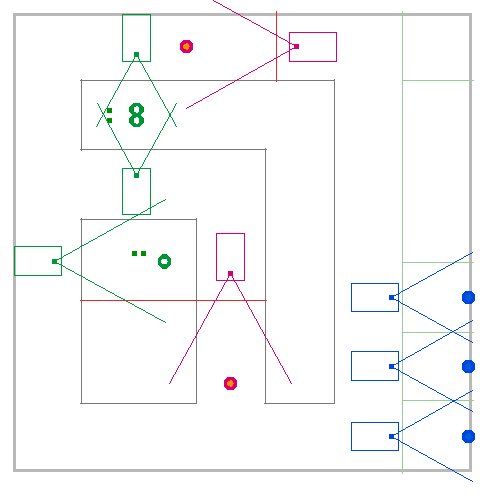
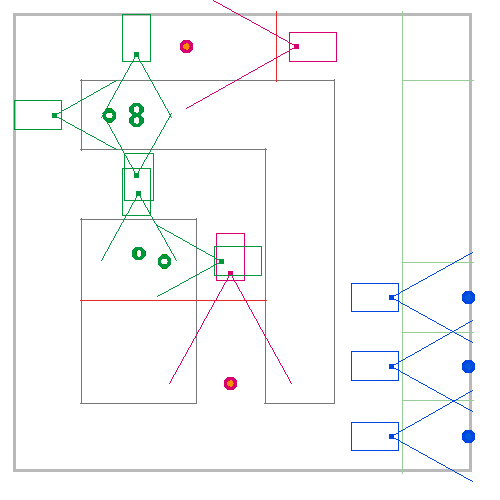
修正识别点位: 立牌朝向法线应为 -(cos yaw, sin yaw) (人物在模型 -x 面)
症状: A_north/A_south 的点位互换、A_west/B_north 算不出解 (相机被放到街区里面)。
原因: 点位工具按'朝向 = yaw 方向'算, 而实拍确认人物图在 -x 面。
修后 5 组都是正对 (正视度 1.00), 可见高度 91~100%, 距离 0.50~0.55m。

diff --git a/tools/gen_recognition_points.py b/tools/gen_recognition_points.py
@@ -332,6 +332,10 @@ def seg_hit_rect(seg, cx, cy, yaw, hx, hy):
 #  4. 目标
 # =============================================================================
 def standee_box(x, y, yaw, w):
+    """★ 立牌"朝哪边"= 模型局部 **-x** 面 (实拍标定, 见 gen_standees.py 的说明):
+    人物图只渲染在 -x 面, +x 面是透明的、背板就贴在那面。
+    所以朝向法线 = **-(cos yaw, sin yaw)**, 不是 +(cos yaw, sin yaw)。
+    (这一条搞错的后果: A_north/A_south 的点位会互换、A_west/B_north 直接无解。)"""
     hx, hy = GS.THICK / 2.0, w / 2.0
     z0, z1 = GS.BASE_H, GS.BASE_H + GS.STANDEE_H
     c, s = math.cos(yaw), math.sin(yaw)
@@ -340,7 +344,7 @@ def standee_box(x, y, yaw, w):
         for dy in (+hy, -hy):
             for z in (z0, z1):
                 pts.append([x + dx * c - dy * s, y + dx * s + dy * c, z])
-    return dict(x=x, y=y, w=w, normal=(c, s), z0=z0, z1=z1,
+    return dict(x=x, y=y, w=w, normal=(-c, -s), z0=z0, z1=z1,
                 foot=(GS.BASE_X / 2.0, w / 2.0), pts=pts)
 
 

diff --git a/docs/recognition_points.md b/docs/recognition_points.md
@@ -21,17 +21,21 @@
 |---|---|---|---|---|---|---|---|---|
 | `tl_top` | traffic_light | (+0.643, +1.779) | -180.0° | 1.000 m (距停止线 0.10 m) | 灯珠直径 px 101.0 (阈值 25) | 0.97 | 30% | 中部街区列 / 顶车道 |
 | `tl_bot` | traffic_light | (-0.110, -0.131) | -90.0° | 1.000 m (距停止线 0.16 m) | 灯珠直径 px 101.0 (阈值 25) | 0.97 | 30% | 竖车道 / B 街区带 |
-| `A_north` | standee | (-0.962, +0.464) | +90.0° | 0.595 m | 立牌宽 px 128.6 (阈值 40) | 1.00 | 76% | A/B 街区列 / 中车道 |
+| `A_north` | standee | (-0.962, +1.857) | -90.0° | 0.500 m | 立牌宽 px 153.1 (阈值 40) | 1.00 | 72% | A/B 街区列 / 顶车道 |
 
-> `A_north` 立牌在画面里高约 292 px。
-| `A_south` | standee | (-0.962, +1.861) | -90.0° | 0.605 m | 立牌宽 px 134.3 (阈值 40) | 1.00 | 76% | A/B 街区列 / 顶车道 |
+> `A_north` 立牌在画面里高约 316 px。
+| `A_south` | standee | (-0.962, +0.458) | +90.0° | 0.500 m | 立牌宽 px 162.6 (阈值 40) | 1.00 | 71% | A/B 街区列 / 中车道 |
 
-> `A_south` 立牌在画面里高约 287 px。
-| `A_west` | standee | — | — | — | **无可行解** | — | — | — |
-| `B_east` | standee | (-1.856, -0.170) | +0.0° | 1.000 m | 立牌宽 px 63.9 (阈值 40) | 1.00 | 86% | 左车道 / B 街区带 |
+> `A_south` 立牌在画面里高约 316 px。
+| `A_west` | standee | (-1.861, +1.157) | +0.0° | 0.500 m | 立牌宽 px 110.2 (阈值 40) | 1.00 | 75% | 左车道 / A 街区带 |
 
-> `B_east` 立牌在画面里高约 173 px。
-| `B_north` | standee | — | — | — | **无可行解** | — | — | — |
+> `A_west` 立牌在画面里高约 316 px。
+| `B_east` | standee | (-0.038, -0.170) | -180.0° | 0.520 m | 立牌宽 px 123.1 (阈值 40) | 1.00 | 73% | 竖车道 / B 街区带 |
+
+> `B_east` 立牌在画面里高约 320 px。
+| `B_north` | standee | (-0.941, +0.596) | -90.0° | 0.550 m | 立牌宽 px 96.8 (阈值 40) | 1.00 | 76% | A/B 街区列 / 中车道 |
+
+> `B_north` 立牌在画面里高约 316 px。
 | `car_1` | plate | (+1.201, -0.501) | +0.0° | 0.700 m | 车牌宽 px 156.7 (阈值 140) | 1.00 | 68% | 东竖车道 / B 街区带 |
 | `car_2` | plate | (+1.201, -1.125) | +0.0° | 0.700 m | 车牌宽 px 156.7 (阈值 140) | 1.00 | 68% | 东竖车道 / 下方街区带 |
 | `car_3` | plate | (+1.201, -1.762) | +0.0° | 0.700 m | 车牌宽 px 156.7 (阈值 140) | 1.00 | 68% | 东竖车道 / 底车道 |
@@ -65,9 +69,9 @@
   - 分辨率下界实测: `tools/check_ocr_resolution.py` 把官方车牌重采样后喂HyperLPR3 识别网络, **70 px 仍 3/3 全对**(加重模糊亦然)。
   - 所以识别不是瓶颈, 要解决的是"从整幅画面里把车牌框出来"(检测/定位)。
 * **人偶立牌 (正对原则)**: 每个方向定一个**正对**该方向人偶的点位 —— 相机光轴垂直于立牌板面 (正视度 1.00, 横向偏置 <=0.00 m)
-  - 画面里立牌宽 64~134 px、可见高 173~292 px。
-  - 代价: 相机只有 **0.20 m 高且无俯仰**, 正对时最近只能站到 0.60~1.00 m, **下沿必然被切**, 画面里只有立牌上部 100%~100% (头+上躯干)。
-  - 实拍验证过: 拍全立牌需要 d >= 0.54 m, 而车道只有 0.61 m 宽装不下 ——**唯一解法是给相机加约 -2° 俯仰**(或降低安装高度), 会偏离实车参数, 需先确认实车相机能不能动。
+  - 画面里立牌宽 97~163 px、可见高 316~320 px。
+  - 代价: 相机只有 **0.20 m 高且无俯仰**, 正对时最近只能站到 0.50~0.55 m, **下沿必然被切**, 画面里只有立牌上部 91%~100% (头+上躯干)。
+  - 实拍验证过: 拍全立牌需要 d >= 0.54 m, 而车道只有 0.61 m 宽装不下 ——**唯一解法是给相机加约 1° 俯仰**(或降低安装高度), 会偏离实车参数, 需先确认实车相机能不能动。
 * **车道约束**: 点位是按"车体不出白线 + 不压车道线/停止线 + 不进街区 + 不碰道具"逐条筛出来的。街区在仿真里**没有实体墙**(只有地面画线), 所以必须显式禁行, 否则车会从街区中间穿过去。
   若官方认定某条走廊不是路 (例如 x∈[0.21,0.83] 那条竖走廊), 改脚本顶部 `ROADS` (矩形走廊列表) 后重跑即可。
 * 复核用图: `docs/recognition_points.png` (灰=车道线, 红=停止线, 浅绿=车位分隔线; 绿=人偶, 品红=红绿灯, 蓝=车牌)。
